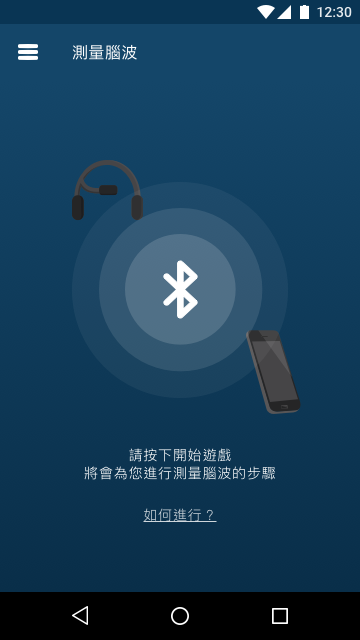
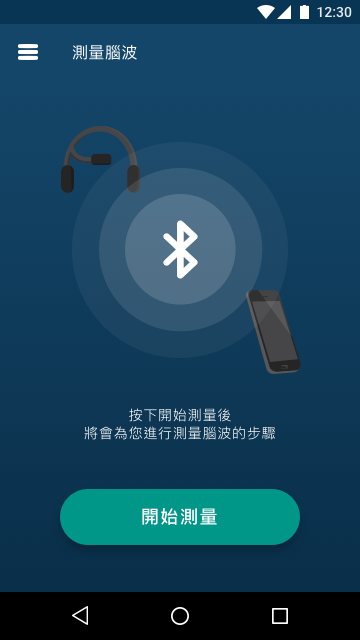
default

Changed region(s): [[0.1528, 0.1875, 0.8556, 0.875], [0.6722, 0.3125, 0.7028, 0.3438]]

diff --git a/page_ms_default/index.html b/page_ms_default/index.html
@@ -1656,7 +1656,7 @@ I18N['zh-tw'] = {
     init.prototype = SMApp.fn;
     window.SMApp = SMApp;
 })(window);
-$(function(){ SMApp({"scale":"1","unit":"px","colorFormat":"color-hex","artboards":[{"layers":[{"objectID":"7204502B-2ADD-4712-B8FD-A57667C268E6","type":"shape","name":"bg_darkBlue","rect":{"x":0,"y":80,"width":360,"height":512},"rotation":0,"radius":0,"borders":[],"fills":[{"fillType":"gradient","gradient":{"type":"linear","from":{"x":0.463243305683136,"y":0},"to":{"x":0.46324329922059615,"y":1.044392124421861},"colorStops":[{"color":{"r":20,"g":70,"b":105,"a":1,"color-hex":"#144669 100%","argb-hex":"#FF144669","css-rgba":"rgba(20,70,105,1)","ui-color":"(r:0.08 g:0.27 b:0.41 a:1.00)"},"position":0},{"color":{"r":9,"g":45,"b":71,"a":1,"color-hex":"#092D47 100%","argb-hex":"#FF092D47","css-rgba":"rgba(9,45,71,1)","ui-color":"(r:0.03 g:0.18 b:0.28 a:1.00)"},"position":1}]}}],"shadows":[],"opacity":1,"styleName":"","css":["background-image: linear-gradient(-180deg, #144669 0%, #092D47 100%);"]},{"objectID":"DFA48A06-911B-4F2F-9D3F-D669F046449F","type":"shape","name":"nav_bar","rect":{"x":0,"y":592,"width":360,"height":48},"rotation":0,"radius":0,"borders":[],"fills":[],"shadows":[],"opacity":1,"styleName":""},{"objectID":"1D9038E2-0B4B-4B89-8FD6-5779EE9AC07C","type":"symbol","name":"Bars/Status bar","rect":{"x":0,"y":0,"width":360,"height":24},"rotation":0,"radius":0,"borders":[],"fills":[],"shadows":[],"opacity":1,"styleName":""},{"objectID":"92B9CC3F-C79D-4213-845D-358967D93061","type":"shape","name":"status bar bg","rect":{"x":0,"y":0,"width":360,"height":24},"rotation":0,"radius":0,"borders":[],"fills":[{"fillType":"color","color":{"r":9,"g":53,"b":84,"a":1,"color-hex":"#093554 100%","argb-hex":"#FF093554","css-rgba":"rgba(9,53,84,1)","ui-color":"(r:0.04 g:0.21 b:0.33 a:1.00)"}}],"shadows":[],"opacity":1,"styleName":"","css":["background: #093554;"]},{"objectID":"C721A454-854E-449C-85BC-A123A8EC1018","type":"text","name":"12:30","rect":{"x":316,"y":4,"width":36,"height":16},"rotation":0,"radius":0,"borders":[],"fills":[{"fillType":"color","color":{"r":255,"g":255,"b":255,"a":1,"color-hex":"#FFFFFF 100%","argb-hex":"#FFFFFFFF","css-rgba":"rgba(255,255,255,1)","ui-color":"(r:1.00 g:1.00 b:1.00 a:1.00)"}}],"shadows":[],"opacity":1,"styleName":"","content":"12:30","color":{"r":0,"g":0,"b":0,"a":1,"color-hex":"#000000 100%","argb-hex":"#FF000000","css-rgba":"rgba(0,0,0,1)","ui-color":"(r:0.00 g:0.00 b:0.00 a:1.00)"},"fontSize":14,"fontFace":"Roboto-Medium","textAlign":"right","letterSpacing":0,"lineHeight":16,"css":["font-family: Roboto-Medium;","font-size: 14px;","color: #000000;"]},{"objectID":"EA577749-950A-4B95-AE91-1471809E4D5C","type":"shape","name":"bounds","rect":{"x":297,"y":4,"width":16,"height":16},"rotation":0,"radius":0,"borders":[],"fills":[],"shadows":[],"opacity":1,"styleName":""},{"objectID":"04509B03-1C82-4E70-A60B-563CB5EFDEED","type":"shape","name":"Shape","rect":{"x":300,"y":5,"width":9,"height":14},"rotation":0,"radius":0,"borders":[],"fills":[{"fillType":"color","color":{"r":255,"g":255,"b":255,"a":1,"color-hex":"#FFFFFF 100%","argb-hex":"#FFFFFFFF","css-rgba":"rgba(255,255,255,1)","ui-color":"(r:1.00 g:1.00 b:1.00 a:1.00)"}}],"shadows":[],"opacity":1,"styleName":"","css":["background: #FFFFFF;"]},{"objectID":"7EBD03E0-7CF8-4DF4-84D6-87FC9A84FB1E","type":"shape","name":"bounds","rect":{"x":277,"y":4,"width":16,"height":16},"rotation":0,"radius":0,"borders":[],"fills":[],"shadows":[],"opacity":1,"styleName":""},{"objectID":"CBB32A07-0D54-40D4-A69F-2B64CBF676E5","type":"shape","name":"Shape","rect":{"x":277,"y":5,"width":14,"height":14},"rotation":0,"radius":0,"borders":[],"fills":[{"fillType":"color","color":{"r":255,"g":255,"b":255,"a":1,"color-hex":"#FFFFFF 100%","argb-hex":"#FFFFFFFF","css-rgba":"rgba(255,255,255,1)","ui-color":"(r:1.00 g:1.00 b:1.00 a:1.00)"}}],"shadows":[],"opacity":1,"styleName":"","css":["background: #FFFFFF;"]},{"objectID":"1C63ECF8-A21C-468D-A2E0-36C0B9689898","type":"shape","name":"bounds","rect":{"x":258,"y":4,"width":16,"height":16},"rotation":0,"radius":0,"borders":[],"fills":[],"shadows":[],"opacity":1,"styleName":""},{"objectID":"7A5D021E-5761-4B5B-A926-8A58D348CA3B","type":"shape","name":"Shape","rect":{"x":257,"y":5,"width":18,"height":14},"rotation":0,"radius":0,"borders":[],"fills":[{"fillType":"color","color":{"r":255,"g":255,"b":255,"a":1,"color-hex":"#FFFFFF 100%","argb-hex":"#FFFFFFFF","css-rgba":"rgba(255,255,255,1)","ui-color":"(r:1.00 g:1.00 b:1.00 a:1.00)"}}],"shadows":[],"opacity":1,"styleName":"","css":["background: #FFFFFF;"]},{"objectID":"A15F91AF-730A-4074-A24E-D45C4149D91A","type":"symbol","name":"Bar/Header","rect":{"x":0,"y":24,"width":360,"height":56},"rotation":0,"radius":0,"borders":[],"fills":[],"shadows":[],"opacity":1,"styleName":""},{"objectID":"F7567344-B48B-42DA-A3CC-50CE141C64CD","type":"shape","name":"bg","rect":{"x":0,"y":24,"width":360,"height":56},"rotation":0,"radius":0,"borders":[],"fills":[{"fillType":"color","color":{"r":20,"g":70,"b":105,"a":1,"color-hex":"#144669 100%","argb-hex":"#FF144669","css-rgba":"rgba(20,70,105,1)","ui-color":"(r:0.08 g:0.27 b:0.41 a:1.00)"}}],"shadows":[],"opacity":1,"styleName":"","css":["background: #144669;"]},{"objectID":"7633D35D-9322-4228-9C07-ACD3E6F8156D","type":"symbol","name":"Left Icon","rect":{"x":16,"y":40,"width":24,"height":24},"rotation":0,"radius":0,"borders":[],"fills":[],"shadows":[],"opacity":1,"styleName":"","exportable":[{"name":"Icon/menu","format":"png","path":"Icon/menu.png"}]},{"objectID":"CC57C13F-2C1C-4E02-B459-765E72797C45","type":"text","name":"Title","rect":{"x":72,"y":40,"width":66,"height":24},"rotation":0,"radius":0,"borders":[],"fills":[],"shadows":[],"opacity":1,"styleName":"White/16px regular","content":"測量腦波","color":{"r":255,"g":255,"b":255,"a":1,"color-hex":"#FFFFFF 100%","argb-hex":"#FFFFFFFF","css-rgba":"rgba(255,255,255,1)","ui-color":"(r:1.00 g:1.00 b:1.00 a:1.00)"},"fontSize":16,"fontFace":"Roboto-Regular","textAlign":"left","letterSpacing":0.5,"lineHeight":24,"css":["font-family: Roboto-Regular;","font-size: 16px;","color: #FFFFFF;","letter-spacing: 0.5px;","line-height: 24px;"]},{"objectID":"31EA7522-654F-4250-A20C-4C6BBBD1C145","type":"slice","name":"headset","rect":{"x":72,"y":160,"width":71,"height":61},"exportable":[{"name":"headset","format":"png","path":"headset.png"}]},{"objectID":"B3768793-FD70-4D3B-A9CD-801F45E3814D","type":"slice","name":"cellphone","rect":{"x":246,"y":330,"width":55,"height":84},"exportable":[{"name":"cellphone","format":"png","path":"cellphone.png"}]},{"objectID":"1EE1DBE6-CEFB-4436-A4E4-ED8B4B3713AA","type":"shape","name":"oval","rect":{"x":72,"y":182,"width":216,"height":216},"rotation":0,"radius":0,"borders":[],"fills":[{"fillType":"color","color":{"r":255,"g":255,"b":255,"a":1,"color-hex":"#FFFFFF 100%","argb-hex":"#FFFFFFFF","css-rgba":"rgba(255,255,255,1)","ui-color":"(r:1.00 g:1.00 b:1.00 a:1.00)"}}],"shadows":[],"opacity":0.05,"styleName":"","css":["opacity: 0.05;","background: #FFFFFF;"]},{"objectID":"A931F99E-87FA-4035-BB01-4A31112706DB","type":"shape","name":"oval","rect":{"x":99,"y":208,"width":163.3,"height":163.3},"rotation":0,"radius":0,"borders":[],"fills":[{"fillType":"color","color":{"r":255,"g":255,"b":255,"a":1,"color-hex":"#FFFFFF 100%","argb-hex":"#FFFFFFFF","css-rgba":"rgba(255,255,255,1)","ui-color":"(r:1.00 g:1.00 b:1.00 a:1.00)"}}],"shadows":[],"opacity":0.1,"styleName":"","css":["opacity: 0.1;","background: #FFFFFF;"]},{"objectID":"4CC31360-CC7C-46B8-988A-61195273AC8C","type":"shape","name":"oval","rect":{"x":125,"y":234,"width":110.6,"height":110.6},"rotation":0,"radius":0,"borders":[],"fills":[{"fillType":"color","color":{"r":255,"g":255,"b":255,"a":1,"color-hex":"#FFFFFF 100%","argb-hex":"#FFFFFFFF","css-rgba":"rgba(255,255,255,1)","ui-color":"(r:1.00 g:1.00 b:1.00 a:1.00)"}}],"shadows":[],"opacity":0.15,"styleName":"","css":["opacity: 0.15;","background: #FFFFFF;"]},{"objectID":"F11873AE-F236-4580-AEF8-8FE47828F493","type":"symbol","name":"Icon/bluetooth_white","rect":{"x":152,"y":261,"width":57,"height":57},"rotation":0,"radius":0,"borders":[],"fills":[],"shadows":[],"opacity":1,"styleName":"","exportable":[{"name":"Icon/bluetooth_white","format":"png","path":"Icon/bluetooth_white.png"}]},{"objectID":"A8C70863-5B5F-4C1F-A860-F2BDB9BB083B","type":"text","name":"請按下開始遊戲 將會為您進行測量腦波的步","rect":{"x":84,"y":446,"width":193,"height":36},"rotation":0,"radius":0,"borders":[],"fills":[],"shadows":[],"opacity":1,"styleName":"","content":"請按下開始遊戲\\u2028將會為您進行測量腦波的步驟","color":{"r":255,"g":255,"b":255,"a":1,"color-hex":"#FFFFFF 100%","argb-hex":"#FFFFFFFF","css-rgba":"rgba(255,255,255,1)","ui-color":"(r:1.00 g:1.00 b:1.00 a:1.00)"},"fontSize":14,"fontFace":"Roboto-Light","textAlign":"center","letterSpacing":0.800000011920929,"lineHeight":18,"css":["font-family: Roboto-Light;","font-size: 14px;","color: #FFFFFF;","letter-spacing: 0.8px;","line-height: 18px;"]},{"objectID":"4124287C-A61D-4C12-A943-2D3B08987F5E","type":"text","name":"如何進行？","rect":{"x":143,"y":506,"width":75,"height":18},"rotation":0,"radius":0,"borders":[],"fills":[],"shadows":[],"opacity":0.7999999523162842,"styleName":"","content":"如何進行？","color":{"r":255,"g":255,"b":255,"a":1,"color-hex":"#FFFFFF 100%","argb-hex":"#FFFFFFFF","css-rgba":"rgba(255,255,255,1)","ui-color":"(r:1.00 g:1.00 b:1.00 a:1.00)"},"fontSize":14,"fontFace":"Roboto-Light","textAlign":"center","letterSpacing":0.800000011920929,"lineHeight":18,"css":["opacity: 0.8;","font-family: Roboto-Light;","font-size: 14px;","color: #FFFFFF;","letter-spacing: 0.8px;","line-height: 18px;"]}],"notes":[],"pageName":"Page 1","pageObjectID":"D526FE0C-BCEE-4C14-AAE0-85B6CF2F2B53","name":"01-default","slug":"page-1-01-default","objectID":"1DD554C6-4D85-45A2-80E2-2F3876231BF0","width":360,"height":640,"imagePath":"preview/page-1-01-default.png"}],"slices":[{"name":"Left Icon","objectID":"7633D35D-9322-4228-9C07-ACD3E6F8156D","rect":{"x":16,"y":40,"width":24,"height":24},"exportable":[{"name":"Icon/menu","format":"png","path":"Icon/menu.png"}]},{"name":"headset","objectID":"31EA7522-654F-4250-A20C-4C6BBBD1C145","rect":{"x":72,"y":160,"width":71,"height":61},"exportable":[{"name":"headset","format":"png","path":"headset.png"}]},{"name":"cellphone","objectID":"B3768793-FD70-4D3B-A9CD-801F45E3814D","rect":{"x":246,"y":330,"width":55,"height":84},"exportable":[{"name":"cellphone","format":"png","path":"cellphone.png"}]},{"name":"Icon/bluetooth_white","objectID":"F11873AE-F236-4580-AEF8-8FE47828F493","rect":{"x":152,"y":261,"width":57,"height":57},"exportable":[{"name":"Icon/bluetooth_white","format":"png","path":"Icon/bluetooth_white.png"}]}],"colors":[]}) });
+$(function(){ SMApp({"scale":"1","unit":"px","colorFormat":"color-hex","artboards":[{"layers":[{"objectID":"BC76A025-8412-488B-A164-6E2E791669F8","type":"shape","name":"bg_darkBlue","rect":{"x":0,"y":80,"width":360,"height":512},"rotation":0,"radius":0,"borders":[],"fills":[{"fillType":"gradient","gradient":{"type":"linear","from":{"x":0.463243305683136,"y":0},"to":{"x":0.46324329922059615,"y":1.044392124421861},"colorStops":[{"color":{"r":20,"g":70,"b":105,"a":1,"color-hex":"#144669 100%","argb-hex":"#FF144669","css-rgba":"rgba(20,70,105,1)","ui-color":"(r:0.08 g:0.27 b:0.41 a:1.00)"},"position":0},{"color":{"r":9,"g":45,"b":71,"a":1,"color-hex":"#092D47 100%","argb-hex":"#FF092D47","css-rgba":"rgba(9,45,71,1)","ui-color":"(r:0.03 g:0.18 b:0.28 a:1.00)"},"position":1}]}}],"shadows":[],"opacity":1,"styleName":"","css":["background-image: linear-gradient(-180deg, #144669 0%, #092D47 100%);"]},{"objectID":"00B3C372-F812-4012-A20A-7DCCAF58CBDE","type":"shape","name":"nav_bar","rect":{"x":0,"y":592,"width":360,"height":48},"rotation":0,"radius":0,"borders":[],"fills":[],"shadows":[],"opacity":1,"styleName":""},{"objectID":"1D9038E2-0B4B-4B89-8FD6-5779EE9AC07C","type":"symbol","name":"Bars/Status bar","rect":{"x":0,"y":0,"width":360,"height":24},"rotation":0,"radius":0,"borders":[],"fills":[],"shadows":[],"opacity":1,"styleName":""},{"objectID":"92B9CC3F-C79D-4213-845D-358967D93061","type":"shape","name":"status bar bg","rect":{"x":0,"y":0,"width":360,"height":24},"rotation":0,"radius":0,"borders":[],"fills":[{"fillType":"color","color":{"r":9,"g":53,"b":84,"a":1,"color-hex":"#093554 100%","argb-hex":"#FF093554","css-rgba":"rgba(9,53,84,1)","ui-color":"(r:0.04 g:0.21 b:0.33 a:1.00)"}}],"shadows":[],"opacity":1,"styleName":"","css":["background: #093554;"]},{"objectID":"C721A454-854E-449C-85BC-A123A8EC1018","type":"text","name":"12:30","rect":{"x":316,"y":4,"width":36,"height":16},"rotation":0,"radius":0,"borders":[],"fills":[{"fillType":"color","color":{"r":255,"g":255,"b":255,"a":1,"color-hex":"#FFFFFF 100%","argb-hex":"#FFFFFFFF","css-rgba":"rgba(255,255,255,1)","ui-color":"(r:1.00 g:1.00 b:1.00 a:1.00)"}}],"shadows":[],"opacity":1,"styleName":"","content":"12:30","color":{"r":0,"g":0,"b":0,"a":1,"color-hex":"#000000 100%","argb-hex":"#FF000000","css-rgba":"rgba(0,0,0,1)","ui-color":"(r:0.00 g:0.00 b:0.00 a:1.00)"},"fontSize":14,"fontFace":"Roboto-Medium","textAlign":"right","letterSpacing":0,"lineHeight":16,"css":["font-family: Roboto-Medium;","font-size: 14px;","color: #000000;"]},{"objectID":"EA577749-950A-4B95-AE91-1471809E4D5C","type":"shape","name":"bounds","rect":{"x":297,"y":4,"width":16,"height":16},"rotation":0,"radius":0,"borders":[],"fills":[],"shadows":[],"opacity":1,"styleName":""},{"objectID":"04509B03-1C82-4E70-A60B-563CB5EFDEED","type":"shape","name":"Shape","rect":{"x":300,"y":5,"width":9,"height":14},"rotation":0,"radius":0,"borders":[],"fills":[{"fillType":"color","color":{"r":255,"g":255,"b":255,"a":1,"color-hex":"#FFFFFF 100%","argb-hex":"#FFFFFFFF","css-rgba":"rgba(255,255,255,1)","ui-color":"(r:1.00 g:1.00 b:1.00 a:1.00)"}}],"shadows":[],"opacity":1,"styleName":"","css":["background: #FFFFFF;"]},{"objectID":"7EBD03E0-7CF8-4DF4-84D6-87FC9A84FB1E","type":"shape","name":"bounds","rect":{"x":277,"y":4,"width":16,"height":16},"rotation":0,"radius":0,"borders":[],"fills":[],"shadows":[],"opacity":1,"styleName":""},{"objectID":"CBB32A07-0D54-40D4-A69F-2B64CBF676E5","type":"shape","name":"Shape","rect":{"x":277,"y":5,"width":14,"height":14},"rotation":0,"radius":0,"borders":[],"fills":[{"fillType":"color","color":{"r":255,"g":255,"b":255,"a":1,"color-hex":"#FFFFFF 100%","argb-hex":"#FFFFFFFF","css-rgba":"rgba(255,255,255,1)","ui-color":"(r:1.00 g:1.00 b:1.00 a:1.00)"}}],"shadows":[],"opacity":1,"styleName":"","css":["background: #FFFFFF;"]},{"objectID":"1C63ECF8-A21C-468D-A2E0-36C0B9689898","type":"shape","name":"bounds","rect":{"x":258,"y":4,"width":16,"height":16},"rotation":0,"radius":0,"borders":[],"fills":[],"shadows":[],"opacity":1,"styleName":""},{"objectID":"7A5D021E-5761-4B5B-A926-8A58D348CA3B","type":"shape","name":"Shape","rect":{"x":257,"y":5,"width":18,"height":14},"rotation":0,"radius":0,"borders":[],"fills":[{"fillType":"color","color":{"r":255,"g":255,"b":255,"a":1,"color-hex":"#FFFFFF 100%","argb-hex":"#FFFFFFFF","css-rgba":"rgba(255,255,255,1)","ui-color":"(r:1.00 g:1.00 b:1.00 a:1.00)"}}],"shadows":[],"opacity":1,"styleName":"","css":["background: #FFFFFF;"]},{"objectID":"A15F91AF-730A-4074-A24E-D45C4149D91A","type":"symbol","name":"Bar/Header","rect":{"x":0,"y":24,"width":360,"height":56},"rotation":0,"radius":0,"borders":[],"fills":[],"shadows":[],"opacity":1,"styleName":""},{"objectID":"F7567344-B48B-42DA-A3CC-50CE141C64CD","type":"shape","name":"bg","rect":{"x":0,"y":24,"width":360,"height":56},"rotation":0,"radius":0,"borders":[],"fills":[{"fillType":"color","color":{"r":20,"g":70,"b":105,"a":1,"color-hex":"#144669 100%","argb-hex":"#FF144669","css-rgba":"rgba(20,70,105,1)","ui-color":"(r:0.08 g:0.27 b:0.41 a:1.00)"}}],"shadows":[],"opacity":1,"styleName":"","css":["background: #144669;"]},{"objectID":"7633D35D-9322-4228-9C07-ACD3E6F8156D","type":"symbol","name":"Left Icon","rect":{"x":16,"y":40,"width":24,"height":24},"rotation":0,"radius":0,"borders":[],"fills":[],"shadows":[],"opacity":1,"styleName":"","exportable":[{"name":"Icon/menu","format":"png","path":"Icon/menu.png"}]},{"objectID":"CC57C13F-2C1C-4E02-B459-765E72797C45","type":"text","name":"Title","rect":{"x":72,"y":40,"width":66,"height":24},"rotation":0,"radius":0,"borders":[],"fills":[],"shadows":[],"opacity":1,"styleName":"White/16px regular","content":"測量腦波","color":{"r":255,"g":255,"b":255,"a":1,"color-hex":"#FFFFFF 100%","argb-hex":"#FFFFFFFF","css-rgba":"rgba(255,255,255,1)","ui-color":"(r:1.00 g:1.00 b:1.00 a:1.00)"},"fontSize":16,"fontFace":"Roboto-Regular","textAlign":"left","letterSpacing":0.5,"lineHeight":24,"css":["font-family: Roboto-Regular;","font-size: 16px;","color: #FFFFFF;","letter-spacing: 0.5px;","line-height: 24px;"]},{"objectID":"050C3393-375D-40B3-90AC-F985ED15C0B8","type":"slice","name":"headset","rect":{"x":61,"y":126,"width":79,"height":67.9},"exportable":[{"name":"headset","format":"png","path":"headset.png"}]},{"objectID":"4F147329-0A06-437F-8BF3-861C71E7744E","type":"slice","name":"cellphone","rect":{"x":246,"y":290,"width":55,"height":84},"exportable":[{"name":"cellphone","format":"png","path":"cellphone.png"}]},{"objectID":"D7526F59-5F13-412B-9639-275ED1EA7A61","type":"shape","name":"oval","rect":{"x":72,"y":142,"width":216,"height":216},"rotation":0,"radius":0,"borders":[],"fills":[{"fillType":"color","color":{"r":255,"g":255,"b":255,"a":1,"color-hex":"#FFFFFF 100%","argb-hex":"#FFFFFFFF","css-rgba":"rgba(255,255,255,1)","ui-color":"(r:1.00 g:1.00 b:1.00 a:1.00)"}}],"shadows":[],"opacity":0.05,"styleName":"","css":["opacity: 0.05;","background: #FFFFFF;"]},{"objectID":"38CE8FAE-A2AD-4517-9255-8E620646D5A4","type":"shape","name":"oval","rect":{"x":99,"y":168,"width":163.3,"height":163.3},"rotation":0,"radius":0,"borders":[],"fills":[{"fillType":"color","color":{"r":255,"g":255,"b":255,"a":1,"color-hex":"#FFFFFF 100%","argb-hex":"#FFFFFFFF","css-rgba":"rgba(255,255,255,1)","ui-color":"(r:1.00 g:1.00 b:1.00 a:1.00)"}}],"shadows":[],"opacity":0.1,"styleName":"","css":["opacity: 0.1;","background: #FFFFFF;"]},{"objectID":"06B749F1-2864-467B-B09A-73B470A96775","type":"shape","name":"oval","rect":{"x":125,"y":194,"width":110.6,"height":110.6},"rotation":0,"radius":0,"borders":[],"fills":[{"fillType":"color","color":{"r":255,"g":255,"b":255,"a":1,"color-hex":"#FFFFFF 100%","argb-hex":"#FFFFFFFF","css-rgba":"rgba(255,255,255,1)","ui-color":"(r:1.00 g:1.00 b:1.00 a:1.00)"}}],"shadows":[],"opacity":0.15,"styleName":"","css":["opacity: 0.15;","background: #FFFFFF;"]},{"objectID":"F11873AE-F236-4580-AEF8-8FE47828F493","type":"symbol","name":"Icon/bluetooth_white","rect":{"x":152,"y":221,"width":57,"height":57},"rotation":0,"radius":0,"borders":[],"fills":[],"shadows":[],"opacity":1,"styleName":"","exportable":[{"name":"Icon/bluetooth_white","format":"png","path":"Icon/bluetooth_white.png"}]},{"objectID":"27EEB472-CF9F-4448-8776-341D7CD6BEDD","type":"text","name":"按下開始測量後 將會為您進行測量腦波的步","rect":{"x":84,"y":406,"width":193,"height":36},"rotation":0,"radius":0,"borders":[],"fills":[],"shadows":[],"opacity":1,"styleName":"","content":"按下開始測量後\\u2028將會為您進行測量腦波的步驟","color":{"r":255,"g":255,"b":255,"a":1,"color-hex":"#FFFFFF 100%","argb-hex":"#FFFFFFFF","css-rgba":"rgba(255,255,255,1)","ui-color":"(r:1.00 g:1.00 b:1.00 a:1.00)"},"fontSize":14,"fontFace":"Roboto-Light","textAlign":"center","letterSpacing":0.800000011920929,"lineHeight":18,"css":["font-family: Roboto-Light;","font-size: 14px;","color: #FFFFFF;","letter-spacing: 0.8px;","line-height: 18px;"]},{"objectID":"A8AFB92A-E60C-4A13-813F-C15EA00B9C19","type":"symbol","name":"Btn_240px","rect":{"x":60,"y":489,"width":240,"height":56},"rotation":0,"radius":0,"borders":[],"fills":[],"shadows":[],"opacity":1,"styleName":""},{"objectID":"0C65FCC8-A735-40E2-A957-7A61A70AAF78","type":"shape","name":"Rectangle 13","rect":{"x":60,"y":489,"width":240,"height":56},"rotation":0,"radius":100,"borders":[],"fills":[{"fillType":"color","color":{"r":0,"g":150,"b":136,"a":1,"color-hex":"#009688 100%","argb-hex":"#FF009688","css-rgba":"rgba(0,150,136,1)","ui-color":"(r:0.00 g:0.59 b:0.53 a:1.00)"}}],"shadows":[{"type":"outer","offsetX":0,"offsetY":6,"blurRadius":8,"spread":0,"color":{"r":0,"g":0,"b":0,"a":0.2,"color-hex":"#000000 20%","argb-hex":"#33000000","css-rgba":"rgba(0,0,0,0.2)","ui-color":"(r:0.00 g:0.00 b:0.00 a:0.20)"}}],"opacity":1,"styleName":"","css":["background: #009688;","box-shadow: 0 6px 8px 0 rgba(0,0,0,0.20);","border-radius: 100px;"]},{"objectID":"56B2AD4A-5A84-451C-91D2-E6EBE92EE7FF","type":"text","name":"繼續下一步","rect":{"x":60,"y":505,"width":240,"height":24},"rotation":0,"radius":0,"borders":[],"fills":[],"shadows":[],"opacity":1,"styleName":"","content":"開始測量","color":{"r":255,"g":255,"b":255,"a":1,"color-hex":"#FFFFFF 100%","argb-hex":"#FFFFFFFF","css-rgba":"rgba(255,255,255,1)","ui-color":"(r:1.00 g:1.00 b:1.00 a:1.00)"},"fontSize":18,"fontFace":"Roboto-Medium","textAlign":"center","letterSpacing":1.5,"lineHeight":24,"css":["font-family: Roboto-Medium;","font-size: 18px;","color: #FFFFFF;","letter-spacing: 1.5px;","line-height: 24px;"]}],"notes":[],"pageName":"Page 1","pageObjectID":"D526FE0C-BCEE-4C14-AAE0-85B6CF2F2B53","name":"01-default","slug":"page-1-01-default","objectID":"D1863F54-3ED3-4E10-A192-4352DA189999","width":360,"height":640,"imagePath":"preview/page-1-01-default.png"}],"slices":[{"name":"Left Icon","objectID":"7633D35D-9322-4228-9C07-ACD3E6F8156D","rect":{"x":16,"y":40,"width":24,"height":24},"exportable":[{"name":"Icon/menu","format":"png","path":"Icon/menu.png"}]},{"name":"headset","objectID":"050C3393-375D-40B3-90AC-F985ED15C0B8","rect":{"x":61,"y":126,"width":79,"height":67.9},"exportable":[{"name":"headset","format":"png","path":"headset.png"}]},{"name":"cellphone","objectID":"4F147329-0A06-437F-8BF3-861C71E7744E","rect":{"x":246,"y":290,"width":55,"height":84},"exportable":[{"name":"cellphone","format":"png","path":"cellphone.png"}]},{"name":"Icon/bluetooth_white","objectID":"F11873AE-F236-4580-AEF8-8FE47828F493","rect":{"x":152,"y":221,"width":57,"height":57},"exportable":[{"name":"Icon/bluetooth_white","format":"png","path":"Icon/bluetooth_white.png"}]}],"colors":[]}) });
     -->
     </script>
   </head>

diff --git a/index.html b/index.html
@@ -85,6 +85,42 @@
                         <img src="source/page_result_detail-1.png" style="height:140px"/>
                     </a>
                 </div>
+                <div class="col-md-12" >
+                    <h3>側量腦波 </h3> 
+                </div>
+                <div class="col-md-12" >
+                    <div class="col-md-1">
+                        <a style=" color: #144669 " href="page_ms_default/index.html">
+                            <p>default</p>
+                            <img src="source/page_ms_default.png" style="height:140px"/>
+                        </a>
+                    </div>
+                    <div class="col-md-1">
+                        <a style=" color: #144669 " href="#">
+                            <p>step1</p>
+                            <!-- <img src="source/page_ms_default.png" style="height:140px"/> -->
+                        </a>
+                    </div>
+                    <div class="col-md-1">
+                        <a style=" color: #144669 " href="#">
+                            <p>step2</p>
+                            <!-- <img src="source/page_ms_detecting.png" style="height:140px"/> -->
+                        </a>
+                    </div>
+                    <div class="col-md-1">
+                            <a style=" color: #144669 " href="#">
+                                <p>step3</p>
+                                <!-- <img src="source/page_ms_measuring.png" style="height:140px"/> -->
+                            </a>
+                        </div>
+                    <div class="col-md-1">
+                        <a style=" color: #144669 " href="#">
+                            <p>step4</p>
+                            <!-- <img src="source/page_ms_finished.png" style="height:140px"/> -->
+                        </a>
+                    </div>
+                </div>
+                <!-- page_MS -->
             </div>
             <div class="col-md-12" >
                 <h3>Dashboard</h3>
@@ -97,42 +133,7 @@
                     </a>
                 </div>
             </div>
-            <div class="col-md-12" >
-                <h3>側量腦波 </h3> 
-            </div>
-            <div class="col-md-12" >
-                <div class="col-md-1">
-                    <a style=" color: #144669 " href="page_ms_default/index.html">
-                        <p>default</p>
-                        <img src="source/page_ms_default.png" style="height:140px"/>
-                    </a>
-                </div>
-                <div class="col-md-1">
-                    <a style=" color: #144669 " href="page_ms_1/index.html">
-                        <p>step1</p>
-                        <img src="source/page_ms_default.png" style="height:140px"/>
-                    </a>
-                </div>
-                <div class="col-md-1">
-                    <a style=" color: #144669 " href="page_ms_2/index.html">
-                        <p>step2</p>
-                        <img src="source/page_ms_detecting.png" style="height:140px"/>
-                    </a>
-                </div>
-                <div class="col-md-1">
-                        <a style=" color: #144669 " href="page_ms_3/index.html">
-                            <p>step3</p>
-                            <img src="source/page_ms_measuring.png" style="height:140px"/>
-                        </a>
-                    </div>
-                <div class="col-md-1">
-                    <a style=" color: #144669 " href="page_ms_finished/index.html">
-                        <p>kid&situation</p>
-                        <img src="source/page_ms_finished.png" style="height:140px"/>
-                    </a>
-                </div>
-            </div>
-            <!-- page_MS -->
+            
 
             <div class="col-md-12" >
                 <h3> 登入/註冊 </h3>
